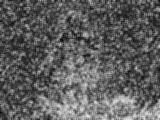
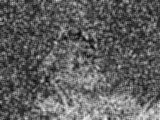
fix distance calc

diff --git a/dip2_py/dip2.py b/dip2_py/dip2.py
@@ -157,6 +157,9 @@ def nlm_filter(src: np.ndarray, search_size: int, sigma: float) -> np.ndarray:
     width = src.shape[1]
     filtered_img = np.zeros((height, width), dtype=np.uint8)
 
+    denom = 2.0 * (sigma * sigma)
+    eps = 1e-8 #to avoid 0
+
     # iterate over image
     search_window_pad_size = int(patch_size/2)
     for y in range(height):
@@ -168,22 +171,28 @@ def nlm_filter(src: np.ndarray, search_size: int, sigma: float) -> np.ndarray:
 
             # center path
             center_patch = padded_search_window[y:(y+patch_size), x:(x+patch_size)]
-            # center_patch_avg = center_patch.mean()
+            center_mean = center_patch.mean()
 
-            distance_sum = 0.0
+            weight_sum = 0.0
+            weighted_pixel_sum = 0.0
             for y_s in range(search_size):
                 for x_s in range(search_size):
                     patch = padded_search_window[y_s:(y_s+patch_size), x_s:(x_s+patch_size)]
+                    path_mean = patch.mean()
                     # patch_avg = patch.mean()
                     # distance_sum += (patch_avg - center_patch_avg)**2
                     # weight =+ np.exp(-distance/(2*sigma**2))
                     # weight =+ distance/(2*sigma**2)
+                    # diff = patch - center_patch
+                    # distance = np.mean(diff * diff)
+                    # distance = np.sum(diff * diff)
+                    distance = (path_mean - center_mean)**2
 
-            # weight = weight/(search_size*search_size)
-            distance_sum = distance_sum/(search_size*search_size)
-            weight = np.exp(-distance_sum/(2*sigma**2))
-            # weight = weight / (search_size*search_size)
-            filtered_img[y,x] = src[y,x] * weight
+                    weight = np.exp(-distance/ denom)
+                    weight_sum += weight
+                    weighted_pixel_sum += weight * padded_search_window[y_s, x_s]
+
+            filtered_img[y,x] = weighted_pixel_sum / (weight_sum + eps)
 
     return np.array(filtered_img, copy=True)
 
